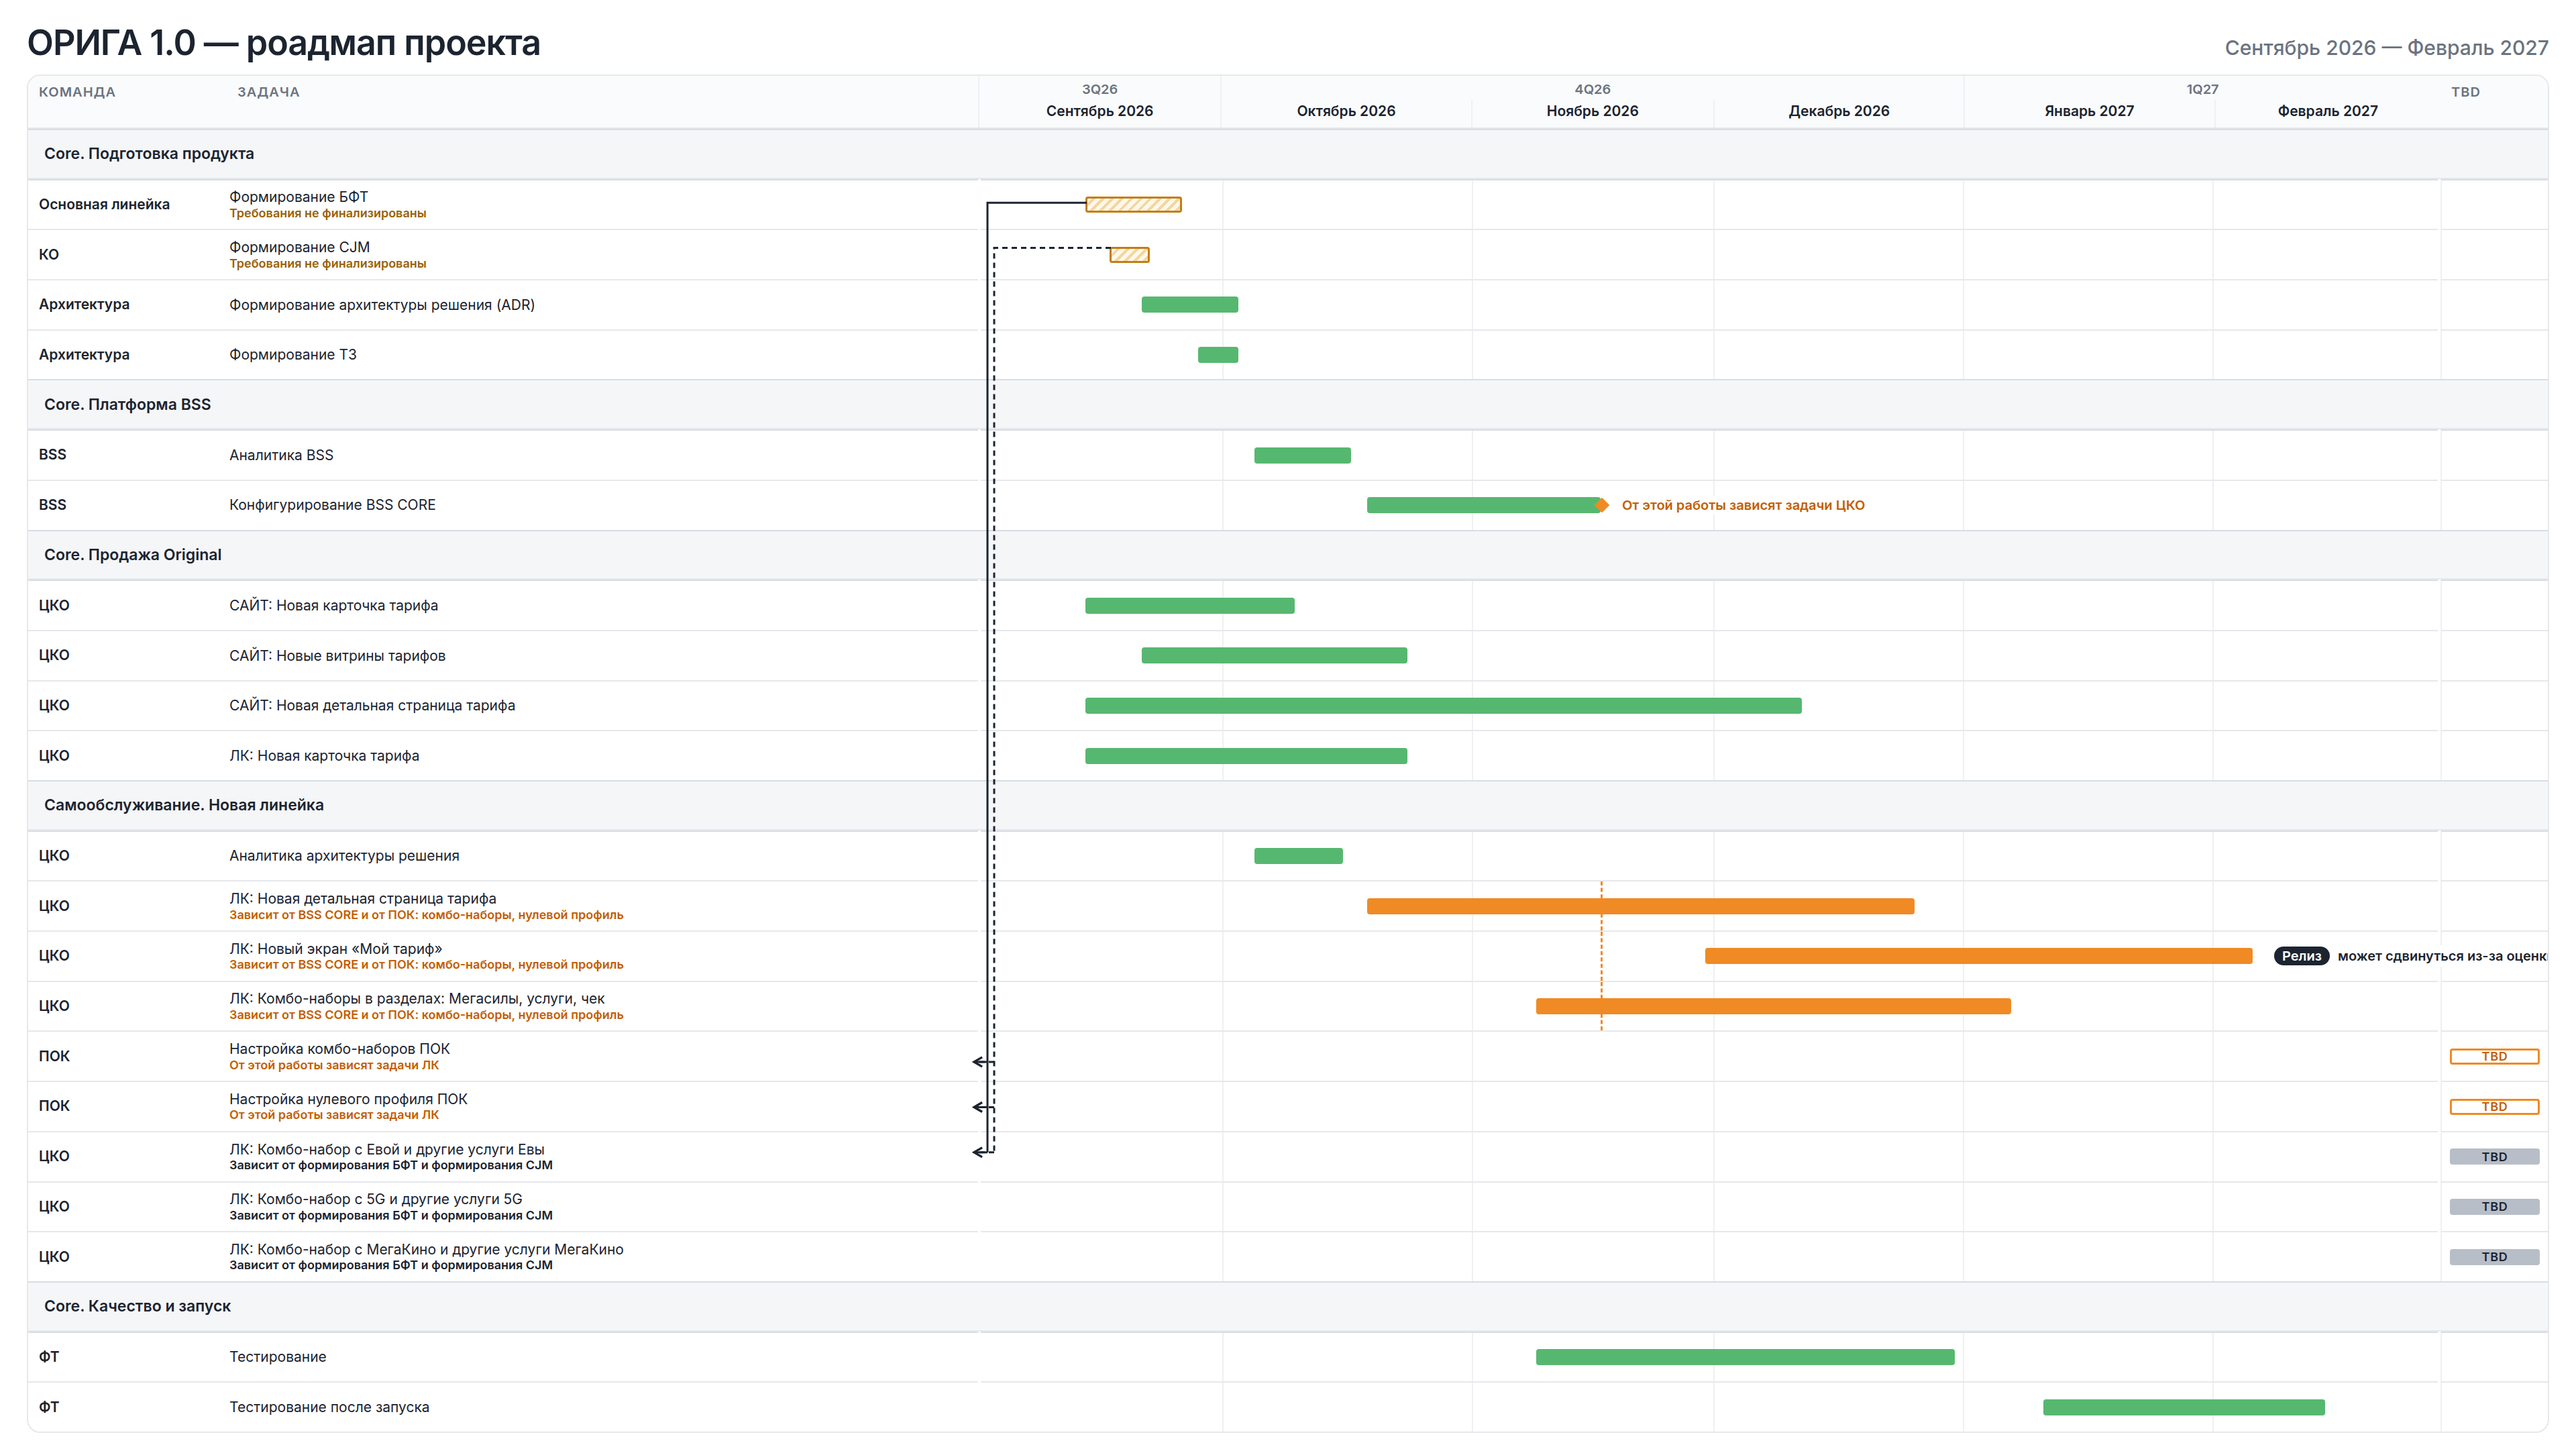
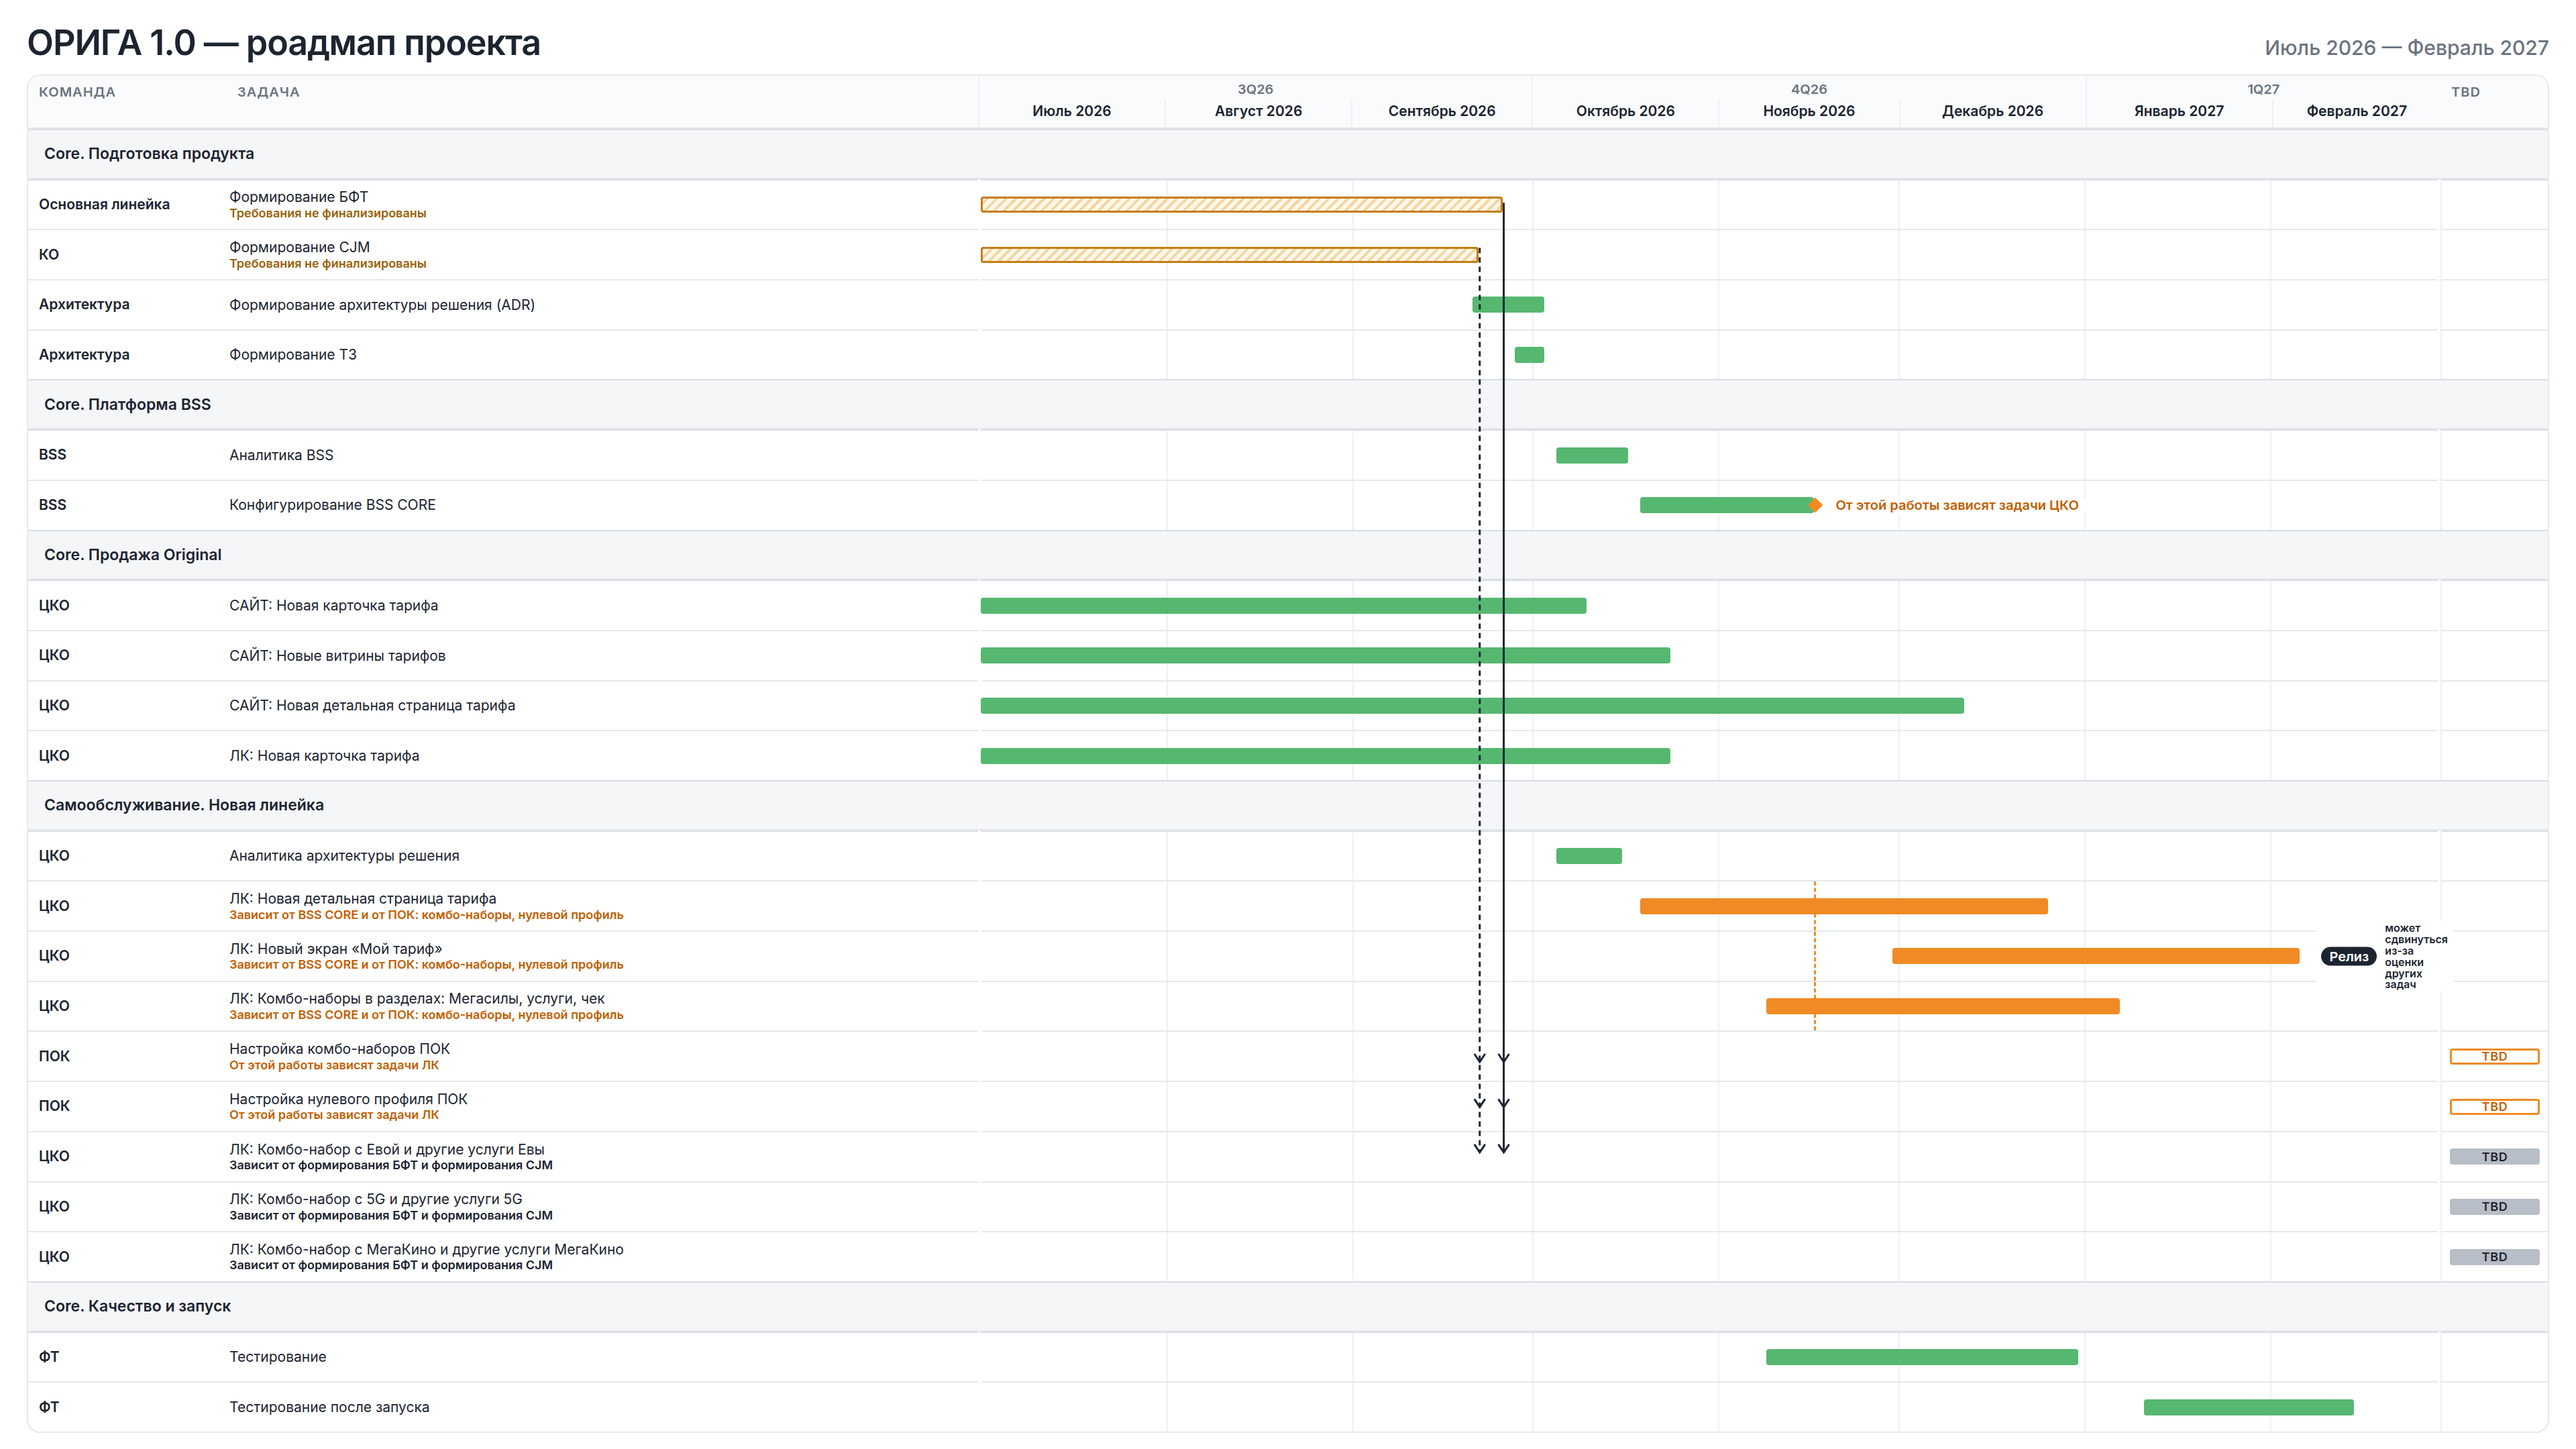
Add July and August to the roadmap timeline

diff --git a/roadmap/render.js b/roadmap/render.js
@@ -170,37 +170,24 @@
     svg.setAttribute('height', String(crect.height));
     root.appendChild(svg);
     const ns = 'http://www.w3.org/2000/svg';
-    const taskTargets = [...root.querySelectorAll('.task[data-prep]')];
     sources.forEach((bar, index) => {
       const br = bar.getBoundingClientRect();
       const y0 = br.top + br.height / 2 - crect.top;
-      const sourceLane = bar.parentElement.getBoundingClientRect();
-      const spineX = sourceLane.left - crect.left + 4 + index * 5;
-      const barLeft = br.left - crect.left;
-      const lastTask = taskTargets[taskTargets.length - 1];
-      const yEnd = lastTask
-        ? lastTask.getBoundingClientRect().top + lastTask.getBoundingClientRect().height / 2 - crect.top
-        : y0;
+      const spineX = br.right - crect.left;
+      const lastTarget = targets[targets.length - 1].getBoundingClientRect();
+      const yEnd = lastTarget.top + lastTarget.height / 2 - crect.top;
       const spine = document.createElementNS(ns, 'path');
-      spine.setAttribute('d', `M ${barLeft.toFixed(1)} ${y0.toFixed(1)} H ${spineX.toFixed(1)} V ${yEnd.toFixed(1)}`);
+      spine.setAttribute('d', `M ${spineX.toFixed(1)} ${y0.toFixed(1)} V ${yEnd.toFixed(1)}`);
       spine.setAttribute('fill', 'none');
       spine.setAttribute('stroke', '#1c2430');
       spine.setAttribute('stroke-width', '1.5');
       if (index === 1) spine.setAttribute('stroke-dasharray', '4 3');
       svg.appendChild(spine);
-      taskTargets.forEach((task) => {
-        const tr = task.getBoundingClientRect();
-        const y = tr.top + tr.height / 2 - crect.top;
-        const xTip = tr.right - crect.left - 4;
-        const tick = document.createElementNS(ns, 'path');
-        tick.setAttribute('d', `M ${spineX.toFixed(1)} ${y.toFixed(1)} H ${xTip.toFixed(1)}`);
-        tick.setAttribute('fill', 'none');
-        tick.setAttribute('stroke', '#1c2430');
-        tick.setAttribute('stroke-width', '1.5');
-        if (index === 1) tick.setAttribute('stroke-dasharray', '4 3');
-        svg.appendChild(tick);
+      targets.forEach((lane) => {
+        const lr = lane.getBoundingClientRect();
+        const y = lr.top + lr.height / 2 - crect.top;
         const head = document.createElementNS(ns, 'path');
-        head.setAttribute('d', `M ${(xTip + 6).toFixed(1)} ${(y - 3.5).toFixed(1)} L ${xTip.toFixed(1)} ${y.toFixed(1)} L ${(xTip + 6).toFixed(1)} ${(y + 3.5).toFixed(1)}`);
+        head.setAttribute('d', `M ${(spineX - 4).toFixed(1)} ${(y - 6).toFixed(1)} L ${spineX.toFixed(1)} ${y.toFixed(1)} L ${(spineX + 4).toFixed(1)} ${(y - 6).toFixed(1)}`);
         head.setAttribute('fill', 'none');
         head.setAttribute('stroke', '#1c2430');
         head.setAttribute('stroke-width', '1.5');

diff --git a/roadmap/data.js b/roadmap/data.js
@@ -1,14 +1,14 @@
 window.ROADMAP_DATA = {
   title: 'ОРИГА 1.0 — роадмап проекта',
-  range: 'Сентябрь 2026 — Февраль 2027',
-  scaleStart: '2026-09-01',
+  range: 'Июль 2026 — Февраль 2027',
+  scaleStart: '2026-07-01',
   scaleEnd: '2027-03-01',
   blocks: [
     {
       title: 'Core. Подготовка продукта',
       rows: [
-        { team: 'Основная линейка', task: 'Формирование БФТ', start: '2026-09-14', end: '2026-09-25', requirementsOpen: true, id: 'bft' },
-        { team: 'КО', task: 'Формирование CJM', start: '2026-09-17', end: '2026-09-21', requirementsOpen: true, id: 'cjm' },
+        { team: 'Основная линейка', task: 'Формирование БФТ', start: '2026-07-01', end: '2026-09-25', requirementsOpen: true, id: 'bft' },
+        { team: 'КО', task: 'Формирование CJM', start: '2026-07-01', end: '2026-09-21', requirementsOpen: true, id: 'cjm' },
         { team: 'Архитектура', task: 'Формирование архитектуры решения (ADR)', start: '2026-09-21', end: '2026-10-02' },
         { team: 'Архитектура', task: 'Формирование ТЗ', start: '2026-09-28', end: '2026-10-02' },
       ],
@@ -23,10 +23,10 @@ window.ROADMAP_DATA = {
     {
       title: 'Core. Продажа Original',
       rows: [
-        { team: 'ЦКО', task: 'САЙТ: Новая карточка тарифа', start: '2026-09-14', end: '2026-10-09' },
-        { team: 'ЦКО', task: 'САЙТ: Новые витрины тарифов', start: '2026-09-21', end: '2026-10-23' },
-        { team: 'ЦКО', task: 'САЙТ: Новая детальная страница тарифа', start: '2026-09-14', end: '2026-12-11' },
-        { team: 'ЦКО', task: 'ЛК: Новая карточка тарифа', start: '2026-09-14', end: '2026-10-23' },
+        { team: 'ЦКО', task: 'САЙТ: Новая карточка тарифа', start: '2026-07-01', end: '2026-10-09' },
+        { team: 'ЦКО', task: 'САЙТ: Новые витрины тарифов', start: '2026-07-01', end: '2026-10-23' },
+        { team: 'ЦКО', task: 'САЙТ: Новая детальная страница тарифа', start: '2026-07-01', end: '2026-12-11' },
+        { team: 'ЦКО', task: 'ЛК: Новая карточка тарифа', start: '2026-07-01', end: '2026-10-23' },
       ],
     },
     {

diff --git a/index.html b/index.html
@@ -30,7 +30,7 @@
       </article>
       <article class="card">
         <h2>Роадмап реализации</h2>
-        <p>ОРИГА 1.0: команды и задачи с сентября 2026 по февраль 2027.</p>
+        <p>ОРИГА 1.0: команды и задачи с июля 2026 по февраль 2027.</p>
         <div class="actions">
           <a class="btn primary" href="roadmap/index.html">Открыть</a>
         </div>

diff --git a/roadmap/roadmap.css b/roadmap/roadmap.css
@@ -270,7 +270,7 @@ h1 {
   padding: 1px 4px;
   background: #fff;
   border-radius: 8px;
-  white-space: nowrap;
+  white-space: normal;
   font-size: 9px;
 }
 
@@ -293,9 +293,10 @@ h1 {
 
 .release-mark span {
   color: #1c2430;
-  font-size: 10px;
+  max-width: 96px;
+  font-size: 8px;
   font-weight: 600;
-  line-height: 1.2;
+  line-height: 1.05;
   background: #fff;
 }
 
